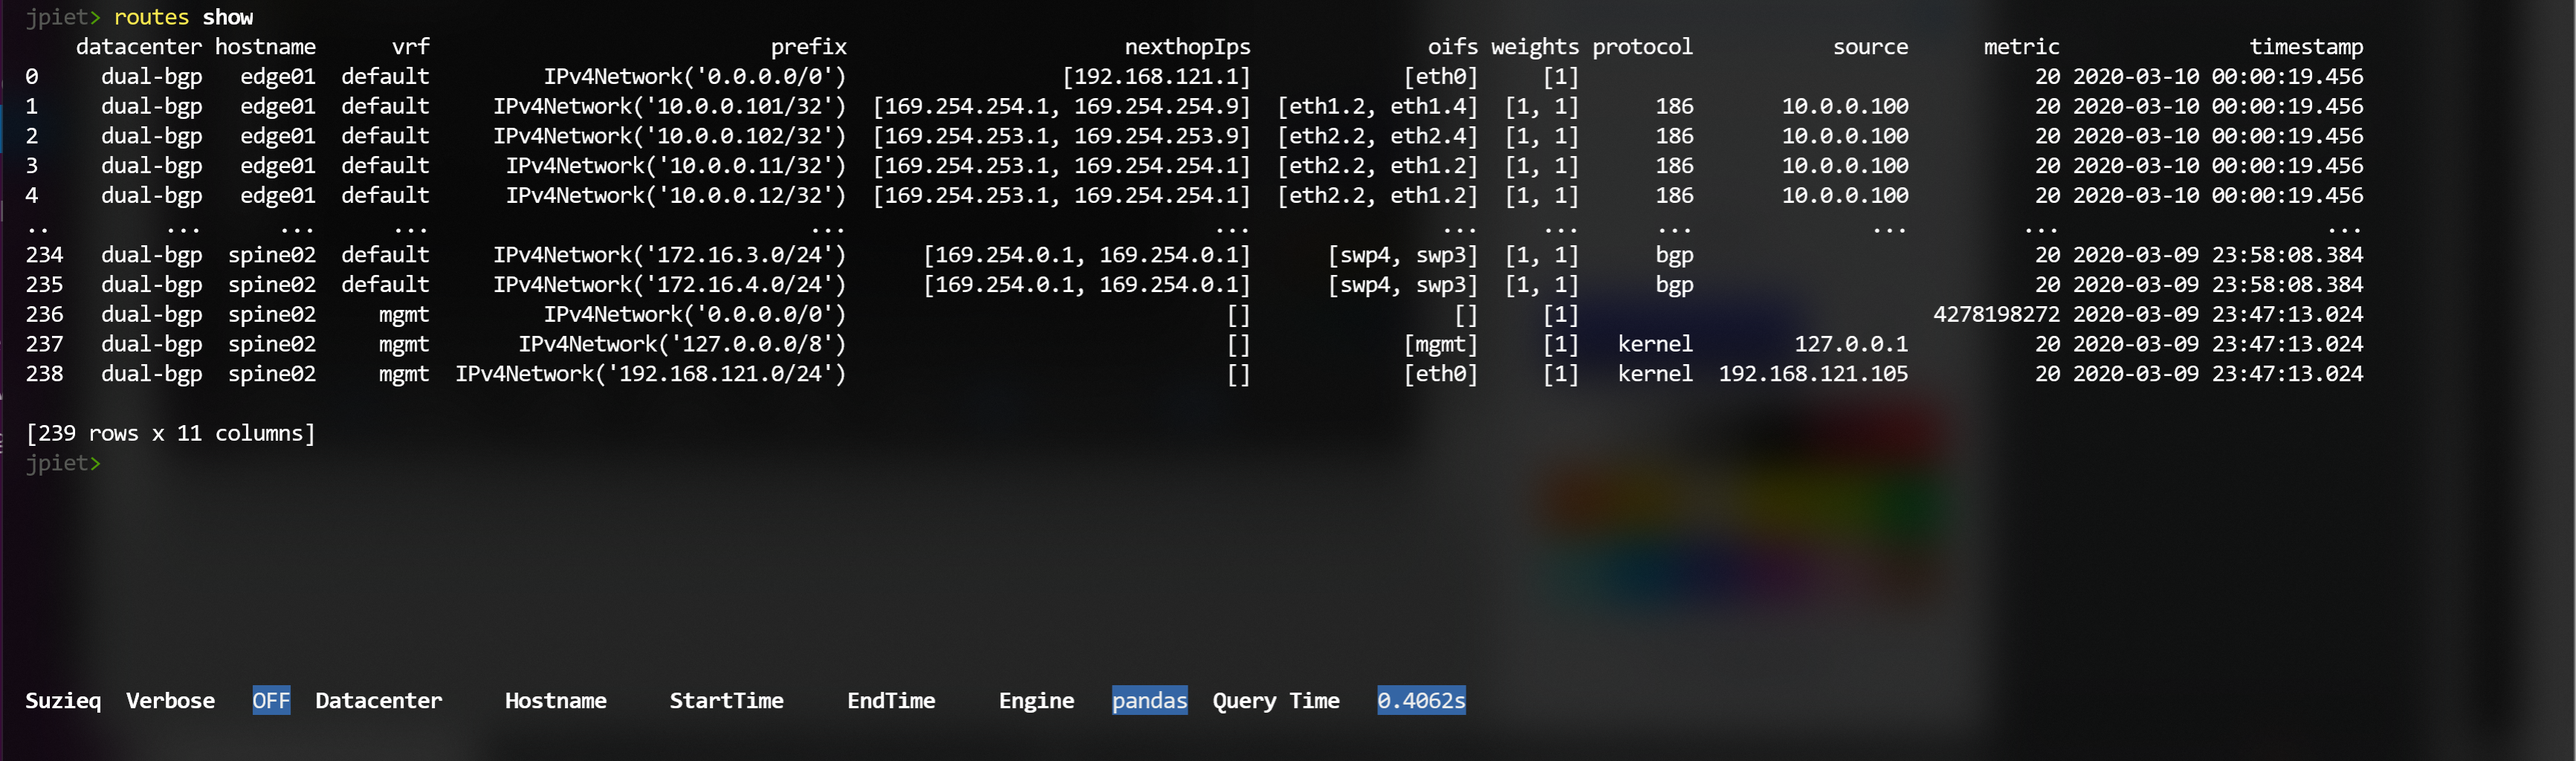
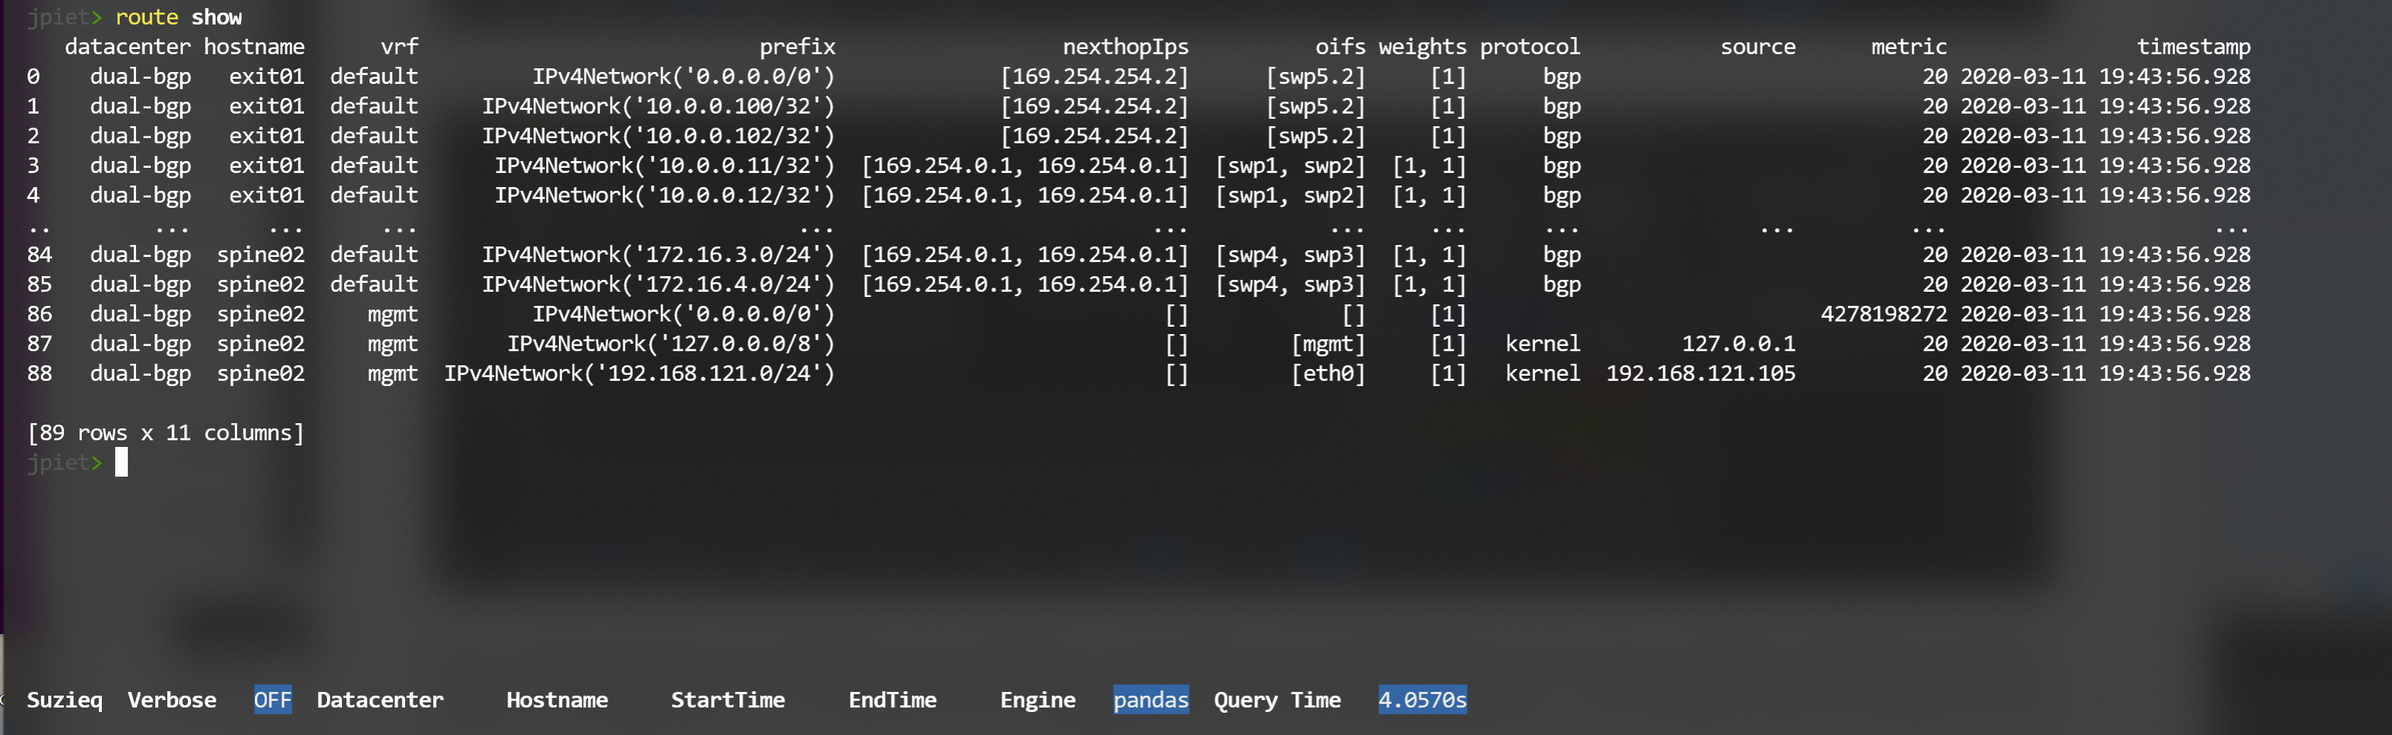
bug #41 changing all commands to singular and fixing the docs for that change

diff --git a/tests/integration/test_sqcmds.py b/tests/integration/test_sqcmds.py
@@ -43,15 +43,15 @@ basic_verbs = ['show']
     ('InterfaceCmd', basic_verbs + ['top', 'aver'],
      [None, None, None], [1518, 60, 0]),
     ('LldpCmd', basic_verbs, [None, None], [352, 48]),
-    ('MacsCmd', basic_verbs, [None, None], [312, 48]),
+    ('MacCmd', basic_verbs, [None, None], [312, 48]),
     ('MlagCmd', basic_verbs + ['describe'], [None, None, None],
      [44, 143]),
     ('OspfCmd', basic_verbs + ['top', 'aver'], [None, None, None],
      [FileNotFoundError, FileNotFoundError,
       FileNotFoundError]),  # TODO: bug #16
-    ('RoutesCmd', basic_verbs + ['lpm'],
+    ('RouteCmd', basic_verbs + ['lpm'],
      [None, {'address': '10.0.0.1'}], [2596, 143]),  # TODO: bug #24
-    ('TablesCmd', basic_verbs, [None, {'table': 'system'}], [120, 44]),
+    ('TableCmd', basic_verbs, [None, {'table': 'system'}], [120, 44]),
     ('TopcpuCmd', basic_verbs, [None, None], [42, 18]),
     ('TopmemCmd', basic_verbs, [None, None], [27, 18]),
     ('VlanCmd', basic_verbs, [None], [96])

diff --git a/tests/conftest.py b/tests/conftest.py
@@ -8,8 +8,8 @@ from unittest.mock import Mock
 suzieq_cli_path = './suzieq/cli/suzieq-cli'
 
 
-commands = [('AddrCmd'), ('ArpndCmd'), ('BgpCmd'), ('EvpnVniCmd'), ('InterfaceCmd'), ('LldpCmd'), ('MacsCmd'),
-            ('MlagCmd'), ('OspfCmd'), ('RoutesCmd'), ('SystemCmd'), ('TopcpuCmd'), ('TopmemCmd'), ('VlanCmd')]
+commands = [('AddrCmd'), ('ArpndCmd'), ('BgpCmd'), ('EvpnVniCmd'), ('InterfaceCmd'), ('LldpCmd'), ('MacCmd'),
+            ('MlagCmd'), ('OspfCmd'), ('RouteCmd'), ('SystemCmd'), ('TopcpuCmd'), ('TopmemCmd'), ('VlanCmd')]
 
 
 tables = [('arpnd'), ('bgp'), ('evpnVni'), ('fs'), ('ifCounters'), ('interfaces'), ('lldp'), ('macs'), ('mlag'),

diff --git a/suzieq/cli/sqcmds/TableCmd.py b/suzieq/cli/sqcmds/TableCmd.py
@@ -6,8 +6,8 @@ from suzieq.cli.sqcmds.command import SqCommand
 from suzieq.sqobjects.tables import TablesObj
 
 
-@command("tables", help="Information about the various tables")
-class TablesCmd(SqCommand):
+@command("table", help="Information about the various tables")
+class TableCmd(SqCommand):
     def __init__(
         self,
         engine: str = "",

diff --git a/suzieq/cli/sqcmds/MacCmd.py b/suzieq/cli/sqcmds/MacCmd.py
@@ -5,8 +5,8 @@ from suzieq.cli.sqcmds.command import SqCommand
 from suzieq.sqobjects.macs import MacsObj
 
 
-@command("macs", help="Act on MAC Table data")
-class MacsCmd(SqCommand):
+@command("mac", help="Act on MAC Table data")
+class MacCmd(SqCommand):
     def __init__(
         self,
         engine: str = "",

diff --git a/suzieq/cli/sqcmds/RouteCmd.py b/suzieq/cli/sqcmds/RouteCmd.py
@@ -5,8 +5,8 @@ from suzieq.cli.sqcmds.command import SqCommand
 from suzieq.sqobjects.routes import RoutesObj
 
 
-@command("routes", help="Act on Routes")
-class RoutesCmd(SqCommand):
+@command("route", help="Act on Routes")
+class RouteCmd(SqCommand):
     def __init__(
         self,
         engine: str = "",
